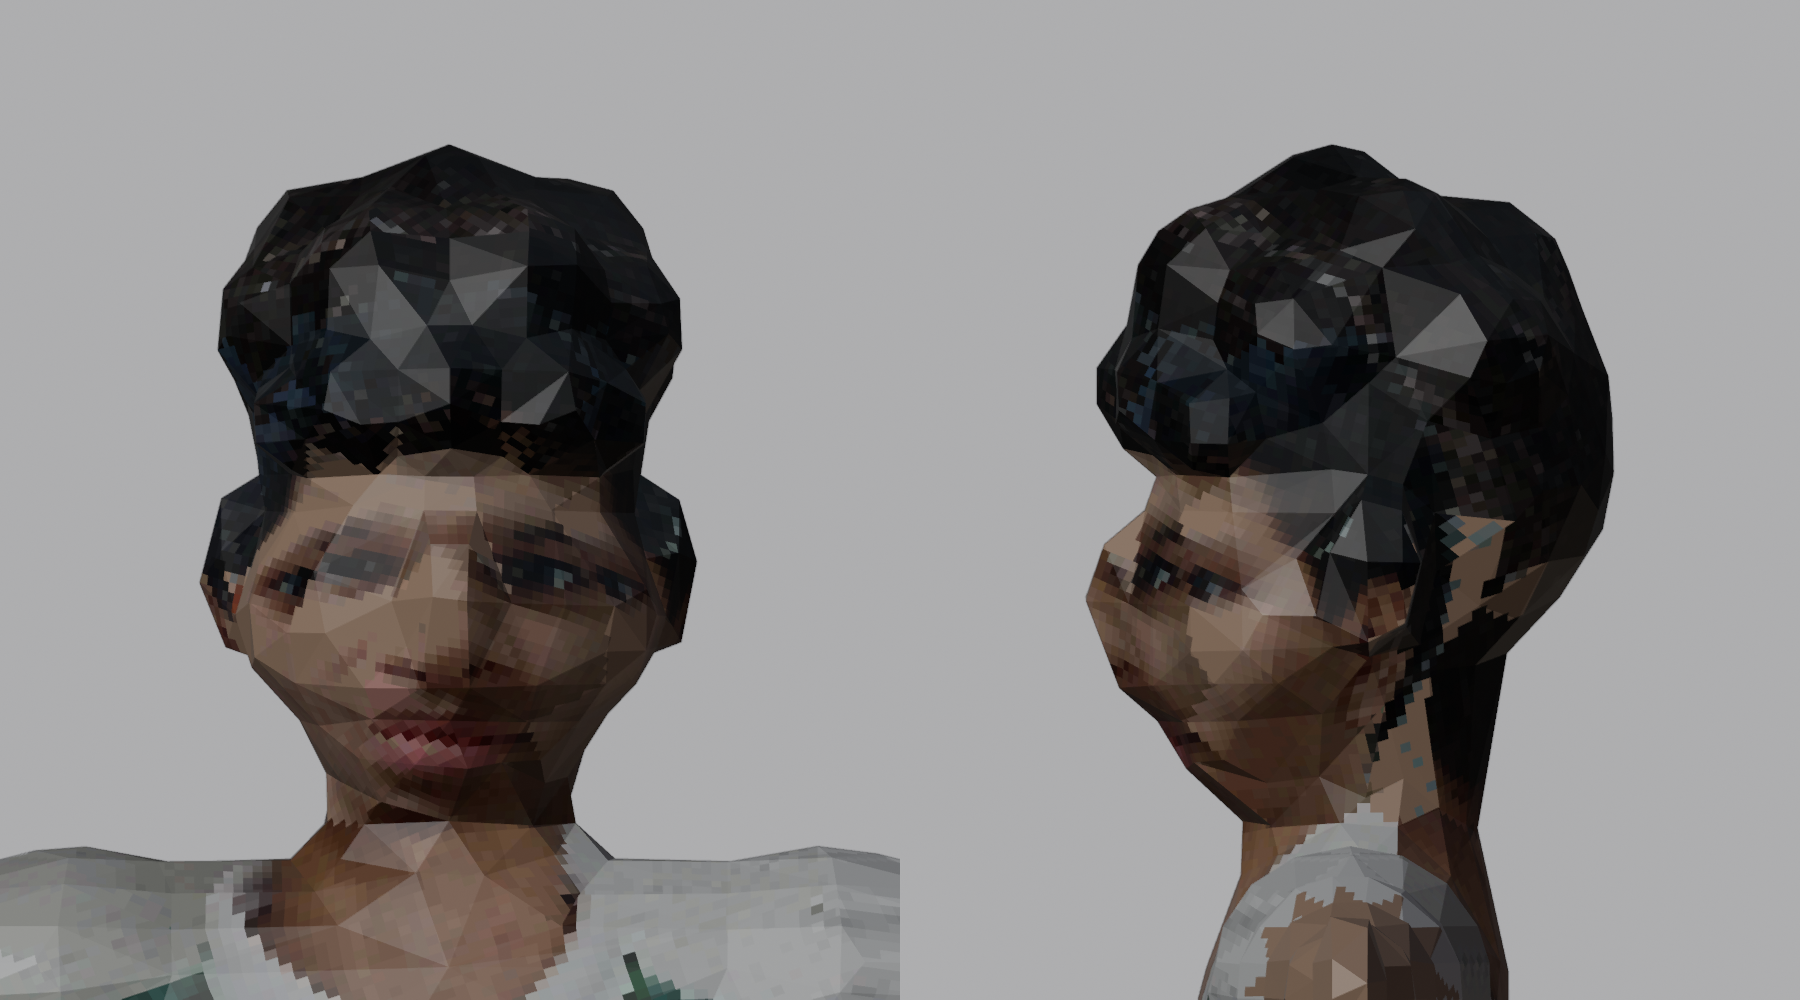
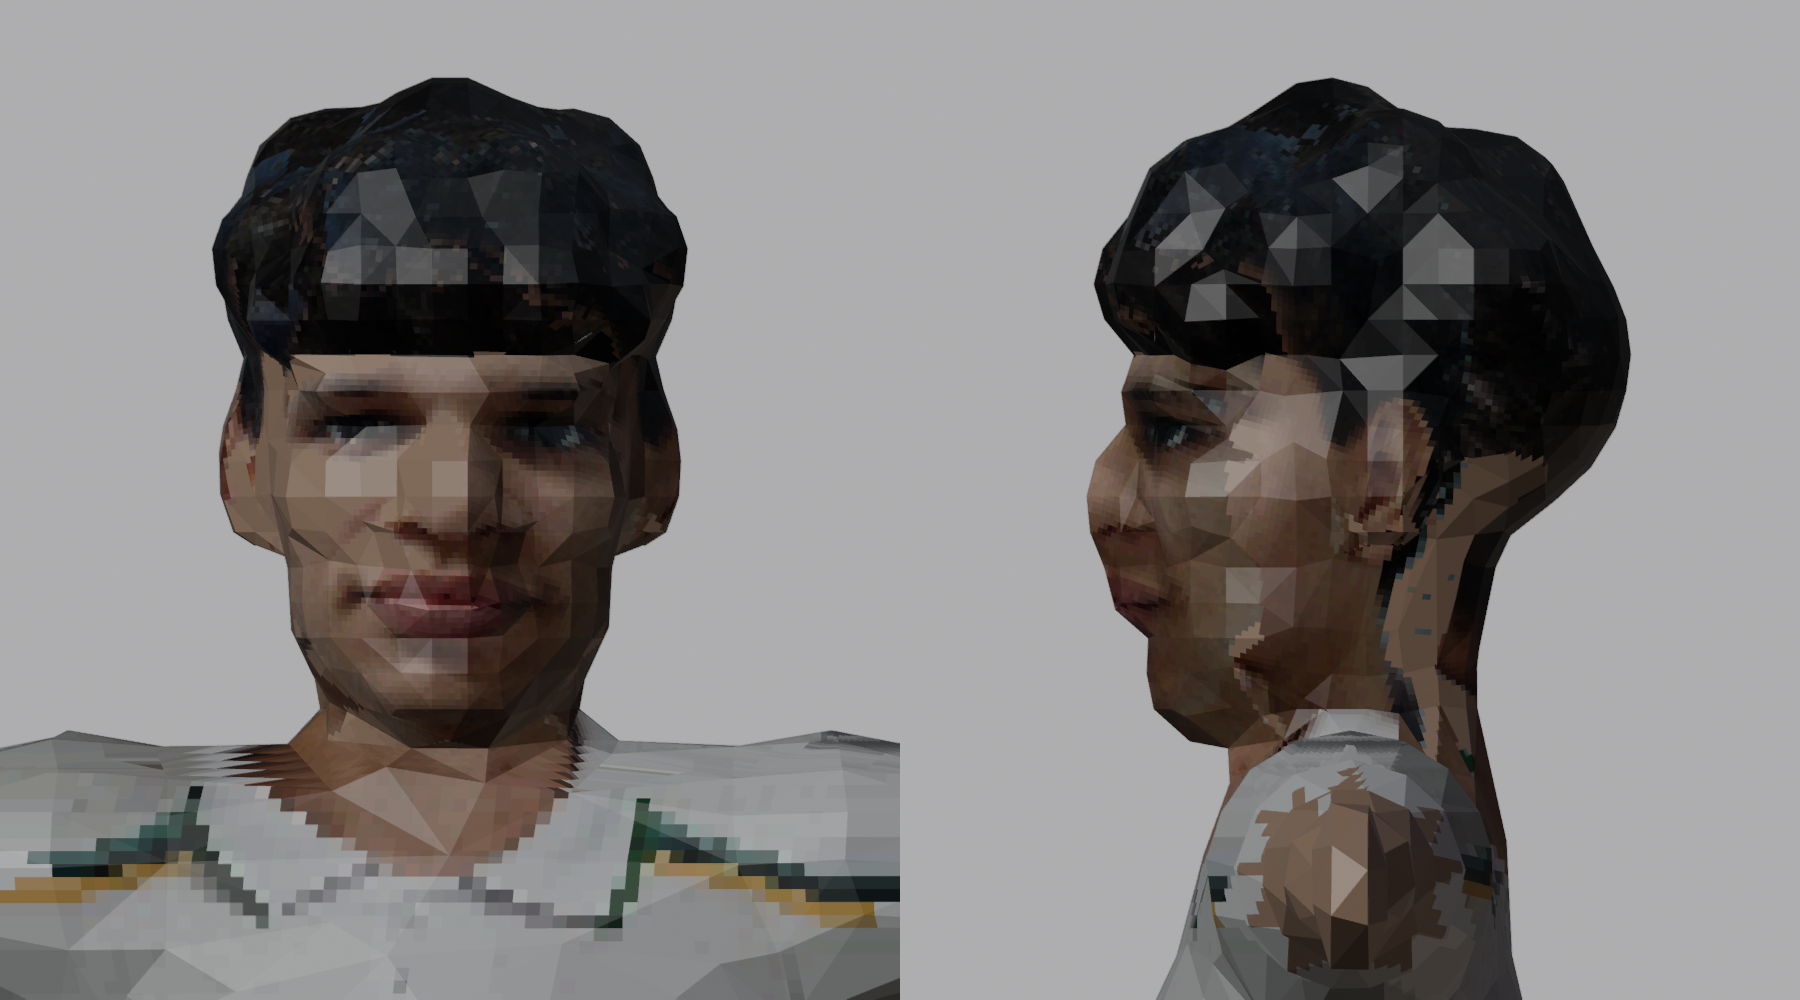
Rosto do Miguel remodelado e textura realinhada
Cabeca com cranio, macas do rosto, mandibula, queixo, sobrancelha, nariz e
labios; orelhas para fora; cabelo mais baixo e franja acima dos olhos.
Cabeca decimada a parte (mais poligonos que o corpo) e com mais area na
textura. Projecao das fotos medida por sobreposicao e presa ao modelo antes
da escala; a frente do rosto usa sempre a foto de frente.

Claude-Session: https://claude.ai/code/session_015xcccLS1wLAHGWNWcjbuqz

diff --git a/arte/gaviao_boneco_lowpoly.py b/arte/gaviao_boneco_lowpoly.py
@@ -58,13 +58,18 @@ cap((0.48, 0.0, 1.405), (0.71, 0.0, 1.405), 0.033, "pele", True)
 eli((0.79, 0.0, 1.400), (0.085, 0.020, 0.045), "pele", True)
 # pescoco
 cap((0.0, 0.010, 1.42), (0.0, 0.005, 1.55), 0.056, "pele")
-# cabeca: queixo pequeno, bochechas largas, cranio
-eli((0.0, -0.005, 1.640), (0.088, 0.098, 0.105), "pele")
-eli((0.0, -0.030, 1.605), (0.095, 0.065, 0.050), "pele")        # bochechas
-eli((0.0, -0.040, 1.555), (0.045, 0.040, 0.028), "pele")        # queixo
-eli((0.0, -0.098, 1.620), (0.020, 0.024, 0.030), "pele")        # nariz
-eli((0.0, -0.085, 1.578), (0.034, 0.020, 0.012), "labio")       # boca
-eli((0.098, 0.012, 1.632), (0.016, 0.022, 0.036), "pele", True)  # orelhas
+# cabeca: cranio oval, rosto largo na maca do rosto, mandibula afinando
+# ate um queixo pequeno; sobrancelha, nariz largo e labios grossos
+eli((0.0, 0.010, 1.655), (0.080, 0.095, 0.095), "pele")         # cranio
+eli((0.0, -0.030, 1.610), (0.080, 0.070, 0.070), "pele")        # massa do rosto
+eli((0.050, -0.062, 1.612), (0.026, 0.022, 0.022), "pele", True)  # macas do rosto
+eli((0.0, -0.035, 1.550), (0.072, 0.058, 0.040), "pele")        # mandibula
+eli((0.0, -0.062, 1.522), (0.034, 0.030, 0.024), "pele")        # queixo
+eli((0.0, -0.080, 1.660), (0.068, 0.022, 0.014), "pele")        # sobrancelha
+eli((0.0, -0.100, 1.608), (0.018, 0.022, 0.032), "pele")        # nariz
+eli((0.0, -0.098, 1.588), (0.026, 0.016, 0.012), "pele")        # asas do nariz
+eli((0.0, -0.092, 1.566), (0.030, 0.016, 0.013), "labio")       # labios
+eli((0.090, 0.018, 1.622), (0.016, 0.024, 0.036), "pele", True)  # orelhas
 # cabelo cacheado: volume em cima, lados curtos, franja na testa
 for c, r in [((0.0, 0.0, 1.735), (0.088, 0.100, 0.055)),
              ((0.0, 0.040, 1.700), (0.088, 0.085, 0.060)),
@@ -79,6 +84,14 @@ for x, y, z, r in [(0.000, -0.010, 1.785, 0.045), (0.055, 0.020, 1.775, 0.040),
                    (-0.045, -0.085, 1.712, 0.026), (0.072, -0.065, 1.700, 0.022),
                    (-0.072, -0.065, 1.700, 0.022)]:
     eli((x, y, z), (r, r, r), "cabelo")
+
+# cabelo um pouco mais baixo (volume medido na foto de frente)
+ELIPSOIDES[:] = [((c[0], c[1], c[2] - 0.025 * (c[2] > 1.69)) if k == "cabelo" else c, r, k)
+                 for c, r, k in ELIPSOIDES]
+
+# franja sobe um pouco: a testa aparece entre a franja e a sobrancelha
+ELIPSOIDES[:] = [((c[0], c[1], c[2] + 0.018) if k == "cabelo" and c[1] < -0.05 and c[2] < 1.73
+                  else c, r, k) for c, r, k in ELIPSOIDES]
 
 # desce cabeca e cabelo: pescoco curto como nas fotos
 DZ_CABECA = -0.035
@@ -98,7 +111,8 @@ CORES = {
     "tenis": (0.92, 0.92, 0.92),
 }
 
-ALVO_FACES = 1400  # ~2800 triangulos
+ALVO_CORPO = 1450   # triangulos do pescoco para baixo
+ALVO_CABECA = 1350  # triangulos da cabeca e cabelo
 
 
 def _dist_capsula(p, a, b, r):
@@ -182,10 +196,22 @@ def construir():
     bmesh.ops.remove_doubles(bm, verts=bm.verts, dist=0.002)
     bm.to_mesh(me)
     bm.free()
-    dec = ob.modifiers.new("Decimate", "DECIMATE")
-    dec.ratio = min(1.0, ALVO_FACES * 2 / max(1, len(me.polygons) * 2))
-    dec.use_collapse_triangulate = True
-    bpy.ops.object.modifier_apply(modifier="Decimate")
+    # cabeca guarda mais poligonos que o corpo (rosto precisa de forma)
+    bpy.ops.object.mode_set(mode="EDIT")
+    for regiao, alvo in (("corpo", ALVO_CORPO), ("cabeca", ALVO_CABECA)):
+        bpy.ops.mesh.select_all(action="DESELECT")
+        bpy.ops.object.mode_set(mode="OBJECT")
+        n = 0
+        for v in me.vertices:
+            v.select = (v.co.z > 1.47) == (regiao == "cabeca")
+        for f in me.polygons:
+            f.select = all(me.vertices[i].select for i in f.vertices)
+            n += f.select
+        bpy.ops.object.mode_set(mode="EDIT")
+        bpy.ops.mesh.decimate(ratio=min(1.0, alvo / max(2 * n, 1)))  # quads -> 2 tris
+    bpy.ops.mesh.select_all(action="SELECT")
+    bpy.ops.mesh.quads_convert_to_tris()
+    bpy.ops.object.mode_set(mode="OBJECT")
 
     # altura exata (topo do cabelo) e pes no chao
     zs = [v.co.z for v in me.vertices]
@@ -217,12 +243,12 @@ def construir():
 FOTOS = os.path.join(os.path.dirname(os.path.abspath(__file__)), "referencias", "miguel")
 TEX = 512
 PROJ = {
-    # eixo: funcao (x, y) -> coordenada horizontal em metros
-    "rosto_frente": (840, 4263, 1000, 5055, 1.531, lambda x, y: x),
-    "perfil_direito": (1010, 6200, 1000, 4835, 1.531, lambda x, y: -y - 0.117),
-    "perfil_esquerdo": (300, 6200, 1010, 4835, 1.531, lambda x, y: y + 0.117),
-    "cabeca_costas": (640, 5570, 1230, 4240, 1.470, lambda x, y: -x),
-    "corpo_frente": (750, 957, 1840, 957, 0.0, lambda x, y: x),
+    # coordenadas do modelo antes do ajuste para 1,76 m (nao mudam com a escala)
+    "rosto_frente": (820, 4285, 1000, 4921, 1.568, lambda x, y: x),
+    "perfil_direito": (1010, 5730, 1000, 3916, 1.582, lambda x, y: -y - 0.122),
+    "perfil_esquerdo": (300, 5730, 1010, 4237, 1.583, lambda x, y: y + 0.122),
+    "cabeca_costas": (640, 5364, 1230, 4083, 1.521, lambda x, y: -x),
+    "corpo_frente": (750, 922, 1840, 922, -0.005, lambda x, y: x),
 }
 
 
@@ -252,9 +278,21 @@ def texturizar(ob, k, z_min):
     me = ob.data
     bpy.context.view_layer.objects.active = ob
     bpy.ops.object.mode_set(mode="EDIT")
+    # o rosto ganha mais area na textura: aumenta a cabeca so durante o UV
+    orig = [v.co.copy() for v in me.vertices]
+    bpy.ops.object.mode_set(mode="OBJECT")
+    for v in me.vertices:
+        if v.co.z > 1.45:
+            v.co.x *= 2.2
+            v.co.y *= 2.2
+            v.co.z = 1.45 + (v.co.z - 1.45) * 2.2
+    bpy.ops.object.mode_set(mode="EDIT")
     bpy.ops.mesh.select_all(action="SELECT")
     bpy.ops.uv.smart_project(angle_limit=math.radians(66), island_margin=0.004)
     bpy.ops.object.mode_set(mode="OBJECT")
+    for v, co in zip(me.vertices, orig):
+        v.co = co
+    me.update()
 
     fotos = {n: _carregar(n) for n in PROJ}
     # pele dos bracos: media da bochecha na foto de frente
@@ -271,7 +309,9 @@ def texturizar(ob, k, z_min):
         cor = cor_do_ponto((cen.x / k, cen.y / k, cen.z / k + z_min))
         cabeca = cen.z > 1.46 and cor in ("pele", "cabelo", "labio")
         if cabeca:
-            pesos = {"rosto_frente": -n.y, "cabeca_costas": n.y,
+            # a frente do rosto (nariz, macas) usa sempre a foto de frente
+            frente = 0.8 if cen.y < -0.045 and cor != "cabelo" else 0.0
+            pesos = {"rosto_frente": -n.y + frente, "cabeca_costas": n.y,
                      "perfil_direito": -n.x, "perfil_esquerdo": n.x}
             fonte = max(pesos, key=pesos.get)
         elif abs(cen.x) < 0.22:
@@ -300,6 +340,7 @@ def texturizar(ob, k, z_min):
                     if min(l1, l2, l3) < -0.02:
                         continue
                     q = l1 * pa + l2 * pb + l3 * pc
+                    q = np.array((q[0] / k, q[1] / k, q[2] / k + z_min))
                     col = None
                     if fonte == "corpo_frente":
                         # costas do corpo: mesma estampa espelhada
@@ -311,7 +352,7 @@ def texturizar(ob, k, z_min):
                     elif fonte:
                         col = _amostra(fotos, fonte, q[0], q[1], q[2])
                     if cor == "cabelo" and (col is None or col.mean() > 0.30
-                                            or q[2] > 1.74):
+                                            or q[2] > 1.76):
                         ch, cw = cachos.shape[:2]
                         col = cachos[int((q[1] + q[2]) * 3000) % ch,
                                      int((q[0] + 0.5 * q[2]) * 3000) % cw]
@@ -389,7 +430,7 @@ def renderizar(pasta):
     # close do rosto
     cam_data.ortho_scale = 0.45
     for nome, (loc, rot) in (("rosto_frente", vistas["frente"]), ("rosto_lado", vistas["lado"])):
-        cam.location = (loc[0], loc[1], 1.60)
+        cam.location = (loc[0], loc[1], ALTURA - 0.19)
         cam.rotation_euler = rot
         cena.render.filepath = os.path.join(pasta, "miguel_%s.png" % nome)
         bpy.ops.render.render(write_still=True)
